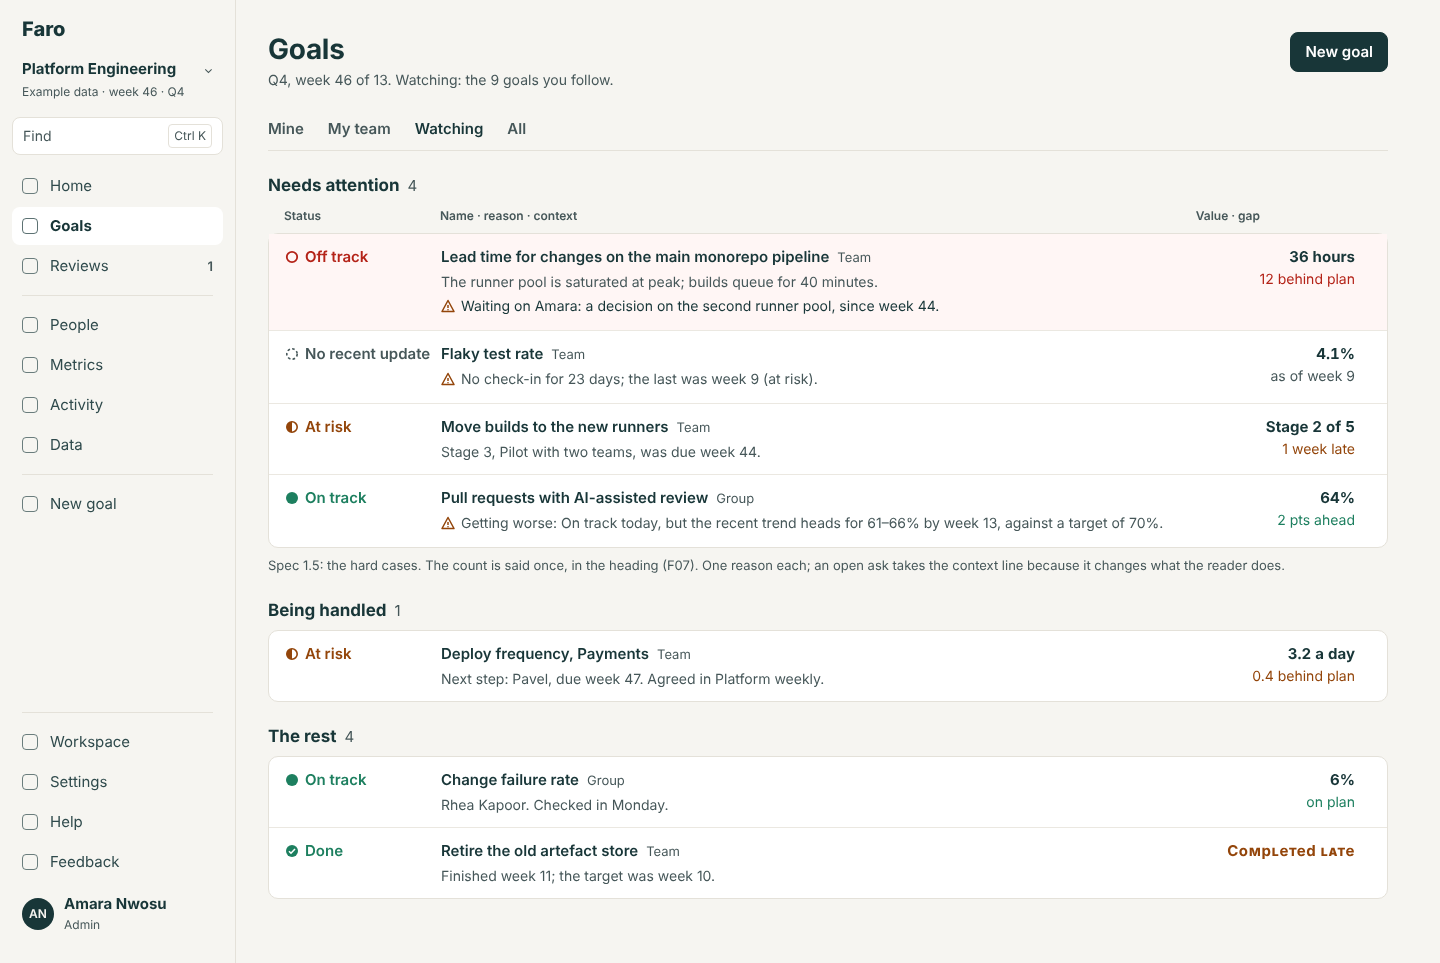
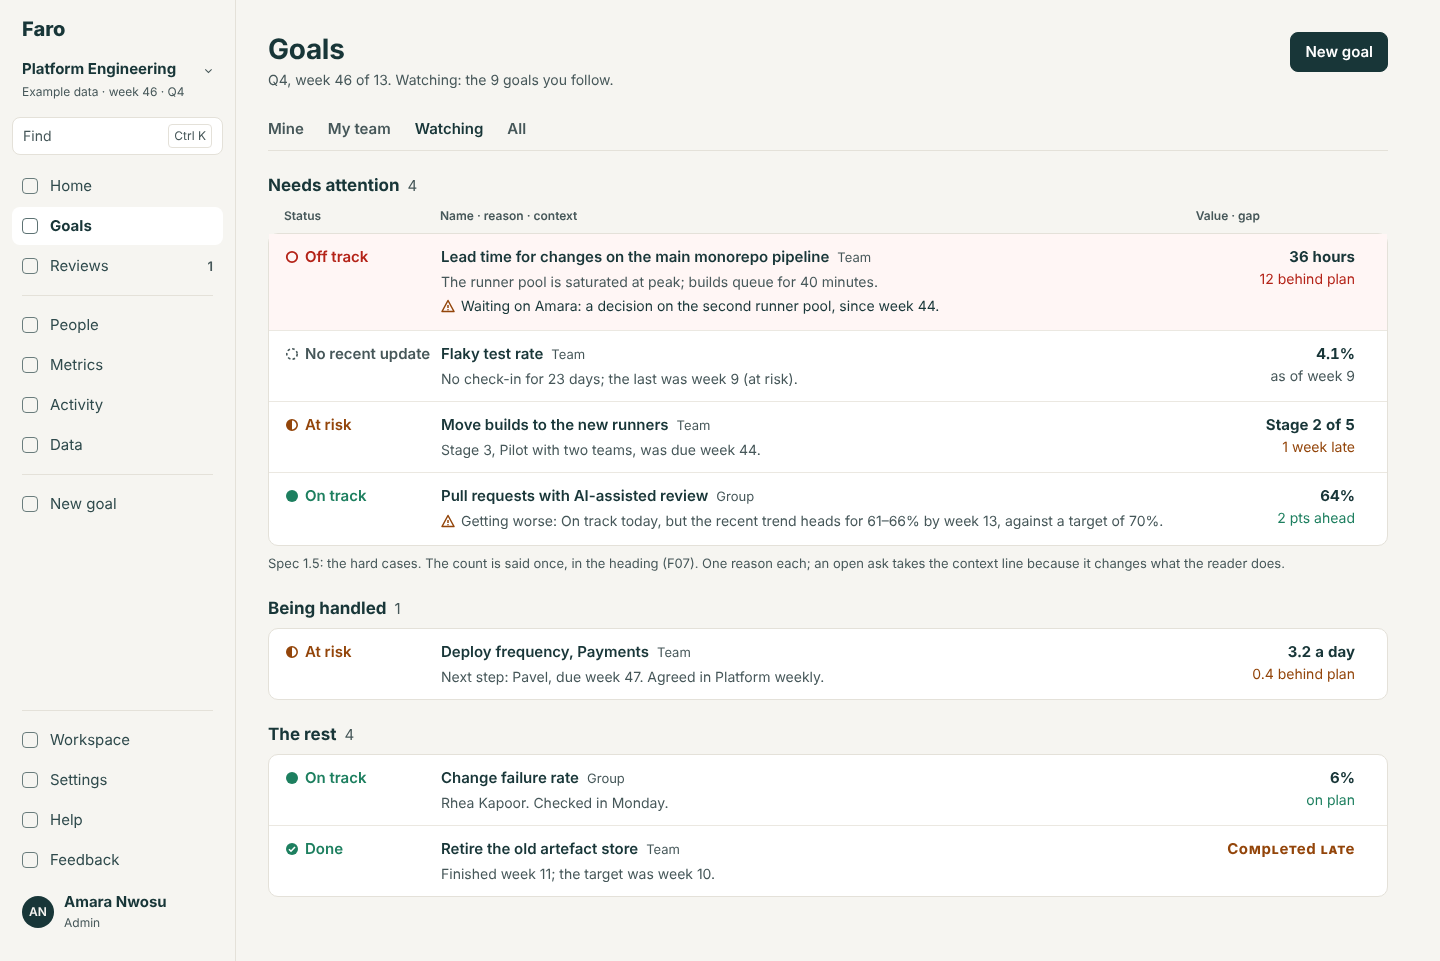
Patterns: review fixes (goal tell in the Name slot, queue reason, stale mark, busy save) [no news]
Claude-Session: https://claude.ai/code/session_012kbr8zkg36ewTBWd5FyWsR

diff --git a/docs/design/patterns/mockups/02-row-places.html b/docs/design/patterns/mockups/02-row-places.html
@@ -113,7 +113,7 @@ table{border-collapse:collapse;width:100%;background:var(--surface);border:1px s
 <li class="grow offwash">
   <span class="s"><span class="st off"><svg width="14" height="14" viewBox="0 0 14 14"><circle cx="7" cy="7" r="5.2" fill="none" stroke="currentColor" stroke-width="1.8"/></svg>Off track</span><span class="ph-status"><b>36 hours</b> · <span class="gap-off">12 behind plan</span></span></span>
   <span class="n"><a href="#">Lead time for changes on the main monorepo pipeline</a></span>
-  <span class="why">Last week: 36 hours · 12 behind plan</span>
+  <span class="why">Last week: builds queue for 40 minutes at peak.</span>
   
   <span class="v"><b>36 hours</b><span class="gap-off">12 behind plan</span></span>
   <span class="act"><span class="btn">Check in</span></span>
@@ -121,7 +121,7 @@ table{border-collapse:collapse;width:100%;background:var(--surface);border:1px s
 <li class="grow ">
   <span class="s"><span class="st risk"><svg width="14" height="14" viewBox="0 0 14 14"><circle cx="7" cy="7" r="5.2" fill="none" stroke="currentColor" stroke-width="1.6"/><path d="M7 1.8a5.2 5.2 0 0 0 0 10.4z" fill="currentColor"/></svg>At risk</span><span class="ph-status"><b>Stage 2 of 5</b> · <span class="gap-risk">1 week late</span></span></span>
   <span class="n"><a href="#">Move builds to the new runners</a></span>
-  <span class="why">Last week: Stage 2 · 1 week late</span>
+  <span class="why">Last week: waiting on the pilot teams to agree dates.</span>
   <span class="ctx">Draft kept</span>
   <span class="v"><b>Stage 2 of 5</b><span class="gap-risk">1 week late</span></span>
   <span class="act"><span class="btn">Carry on</span></span>
@@ -129,7 +129,7 @@ table{border-collapse:collapse;width:100%;background:var(--surface);border:1px s
 <li class="grow ">
   <span class="s"><span class="st none"><svg width="14" height="14" viewBox="0 0 14 14"><circle cx="7" cy="7" r="5.2" fill="none" stroke="currentColor" stroke-width="1.2"/><circle cx="7" cy="7" r="1.6" fill="currentColor"/></svg>No check-in yet</span><span class="ph-status"><b>No number yet</b></span></span>
   <span class="n"><a href="#">Build cache hit rate</a></span>
-  <span class="why">No check-in yet</span>
+  
   
   <span class="v"><b>No number yet</b></span>
   <span class="act"><span class="btn">Check in</span></span>

diff --git a/docs/design/patterns/mockups/01-goal-row.html b/docs/design/patterns/mockups/01-goal-row.html
@@ -121,7 +121,7 @@ table{border-collapse:collapse;width:100%;background:var(--surface);border:1px s
 </li><li class="grow ">
   <span class="s"><span class="st stale"><svg width="14" height="14" viewBox="0 0 14 14"><circle cx="7" cy="7" r="5.2" fill="none" stroke="currentColor" stroke-width="1.6" stroke-dasharray="2.6 2.2"/></svg>No recent update</span><span class="ph-status"><b>4.1%</b> · <span class="">as of week 9</span></span></span>
   <span class="n"><a href="#">Flaky test rate</a><span class="lvl">Team</span></span>
-  <span class="why"><span class="warn"><svg width="14" height="14" viewBox="0 0 14 14"><path d="M7 1.5 13 12.5H1z" fill="none" stroke="currentColor" stroke-width="1.5" stroke-linejoin="round"/><path d="M7 6v3" stroke="currentColor" stroke-width="1.5"/><circle cx="7" cy="10.8" r=".8" fill="currentColor"/></svg>No check-in for 23 days; the last was week 9 (at risk).</span></span>
+  <span class="why">No check-in for 23 days; the last was week 9 (at risk).</span>
   
   <span class="v"><b>4.1%</b><span class="">as of week 9</span></span>
   <span class="act"></span>

diff --git a/docs/design/patterns/spec.md b/docs/design/patterns/spec.md
@@ -41,8 +41,8 @@ Today there are six row shapes for one goal: `GoalRow`'s `full`, `line` and `bri
 |---|---|---|
 | **Status** | The status shape and word, from `goalStatus`. | Yes |
 | **Value** | The number now and its gap, in `nowText` and `gapBeside`'s words ("36 hours", "12 behind plan"). For stages: "Stage 2 of 5" and "1 week late" or "On plan". For a stale goal: the last number and "as of week 9". For a done goal: the result in small capitals ("Completed late"). For no check-in yet: "No number yet". | Yes |
-| **Name** | The goal's title as a link to its page, then its level where the place shows levels. The key ("G-48") is shown only where a list is searched by key. | Yes |
-| **Reason** | One line, and at most two on a phone, giving why the goal is in this list, in the words of the place's rule (1.4). It begins with the warning mark when it is a flag that isn't the status. | When the place has a rule for it |
+| **Name** | The goal's title as a link to its page. Then its tell (`goalTell`: its key, or else its team) whenever another goal with the same title could be on screen (`duplicateTitles`; `rules.ts`, Names). Then its level, where the place shows levels. Otherwise the key ("G-48") is shown only where a list is searched by key. | Yes |
+| **Reason** | One line, and at most two on a phone, giving why the goal is in this list, in the words of the place's rule (1.4). It begins with the warning mark when it is a flag that isn't the status. The "off", "risk" and "stale" flags are the status, so their details carry no mark. | When the place has a rule for it |
 | **Context** | An optional second line. It is used only for something that changes what the reader decides: an open ask ("Waiting on Amara: a decision on the second runner pool, since week 44"), or what puts a behind goal in hand ("Next step: Rhea, due week 47"). | Only then |
 | **Action** | One plain button, where the row is something to do: "Check in", "Carry on", "Correct it", "Respond". | Only in task lists |
 
@@ -89,7 +89,7 @@ Each place keeps the rule it already has. The row only fixes where the result go
 | **Watching: Being handled** | What puts it in hand (`handledFor`), as `HandledRow` says today | None | None | `HandledRow` |
 | **Watching: the rest** | What changed since you last looked (`statusChange`), or the owner and freshness | None | None | `GoalRow` full |
 | **Goals: List and trees** | The top attention flag, else the owner and freshness | None | None | `GoalRow` full |
-| **Check-in queue** | What it last said: "Last week: 36 hours · 8 behind plan" or "No check-in yet" (navigation 2.4) | "Draft kept" when there is one | "Check in", "Carry on" or "Correct it" | Its own row |
+| **Check-in queue** | What last week's check-in said that the value doesn't: the owner's reason, "Last week: builds queue for 40 minutes at peak." Nothing when there was no reason or no check-in, since the value already shows last week's number and gap, and the status already says "No check-in yet". This narrows navigation 2.4's line, which repeated the number | "Draft kept" when there is one | "Check in", "Carry on" or "Correct it" | Its own row |
 | **A review's agenda** | `agendaReason` (reviews spec, rule 1), as that spec already asks for each row | An open next step from the last session | None | The `brief` density, with no reason |
 
 **One reason, never a list of flags.** The goal's page shows the rest. The reason slot never says "and 2 more", because a count of flags is not a reason. The row's order of flags is `ATTENTION_FLAGS`' order: the shared weight that sorts Needs attention already.
@@ -101,7 +101,7 @@ These become unit tests of the row's parts (1.7) and the rows on sheet 01.
 | Case | Status | Value | Reason | Context |
 |---|---|---|---|---|
 | **On track with a forecast miss** (F07): "Pull requests with AI-assisted review", in Watching's Needs attention | ● On track | 64% · 2 pts ahead | ⚠ Getting worse: On track today, but the recent trend heads for 61–66% by week 13, against a target of 70%. | None |
-| **Stale with a last known value**: "Flaky test rate" | ◌ No recent update | 4.1% · as of week 9 | ⚠ No check-in for 23 days; the last was week 9 (at risk). | None |
+| **Stale with a last known value**: "Flaky test rate" | ◌ No recent update | 4.1% · as of week 9 | No check-in for 23 days; the last was week 9 (at risk). *(no warning mark: this flag is the status itself, which the dashed ring already shows, as `FlagPill` does)* | None |
 | **Off track with an open ask**: "Lead time for changes" (washed) | ◯ Off track | 36 hours · 12 behind plan | The runner pool is saturated at peak; builds queue for 40 minutes. *(the owner's why: the "off" flag's detail)* | ⚠ Waiting on Amara: a decision on the second runner pool, since week 44. |
 | **A milestone**: "Move builds to the new runners" | ◐ At risk | Stage 2 of 5 · 1 week late | Stage 3, Pilot with two teams, was due week 44. | None |
 | **Done** | ✓ Done | COMPLETED LATE | Finished week 11; the target was week 10. | None |
@@ -122,7 +122,7 @@ Why the off-track row's reason is the owner's why, and the ask is context: the s
 
 ### 1.7 For the code
 
-- **`src/domain/goalRow.ts`** (new, pure): `rowParts(goal, attention, place, viewer) → { status, value, gap, asOf, result, reason, reasonIsFlag, context, action }`, where `place` is one of the eight places in 1.4. It reads only what it is given (AR4). Its worked examples are 1.5's rows, as unit tests and conformance rows in `spec/conformance/goal-row.csv`.
+- **`src/domain/goalRow.ts`** (new, pure): `rowParts(goal, attention, place, viewer) → { status, value, gap, asOf, result, tell, reason, reasonIsFlag, context, action }`, where `place` is one of the eight places in 1.4. It reads only what it is given (AR4). Its worked examples are 1.5's rows, as unit tests and conformance rows in `spec/conformance/goal-row.csv`.
 - **`src/ui/GoalRow.tsx`** replaces the three densities with `<GoalRow goal place action? />`. `HandledRow` and the queue's row go. CSS: one `.grow` grid with the phone layout above. The `trow`, `gline` and `agenda-row` classes go.
 - **MCP:** `find_goals` and `get_overview` gain `reason` and `context` fields from `rowParts`, so an AI answer names the same reason as the screen. Run `npm run build:mcp`.
 - **Requirement** `GOAL-ROW` with its spec section. It is core: the row is part of every list, so it has no switch (its spec says so). The places that belong to modules (Watching, a review's agenda) are switched off with their modules.
@@ -244,7 +244,7 @@ A step's primary names the next step ("Next: why it's behind"), because the stud
 ### 3.3 Errors
 
 1. **An error sits beside its field**: under the label, above the input, in plain words ("Type this week's number, in hours."). It never says "Enter “”". The field gets a full outline in the off-track ink (`design-rules.md`: errors cover the whole element), and `aria-invalid` with `aria-describedby` pointing at the words.
-2. **The primary is never disabled.** Pressing it with something missing shows the errors and moves focus to the first field in error, scrolled into view below any sticky header.
+2. **The primary is never disabled for missing input.** It is disabled only while a save is in progress, as every form does today, with words that say so ("Posting…"). Pressing it with something missing shows the errors and moves focus to the first field in error, scrolled into view below any sticky header.
 3. **A summary only when it helps**: when there are two or more errors, or the one error is out of view, the status line says "2 things to fix: Target, Owner", each a link that moves focus to its field. One error that is in view needs no summary.
 4. **Rows in a table form** (the table check-in, Data's sheet) say their error in the row and count them in the status line ("2 need a reason"). Opening the first such row is the status line's link.
 
